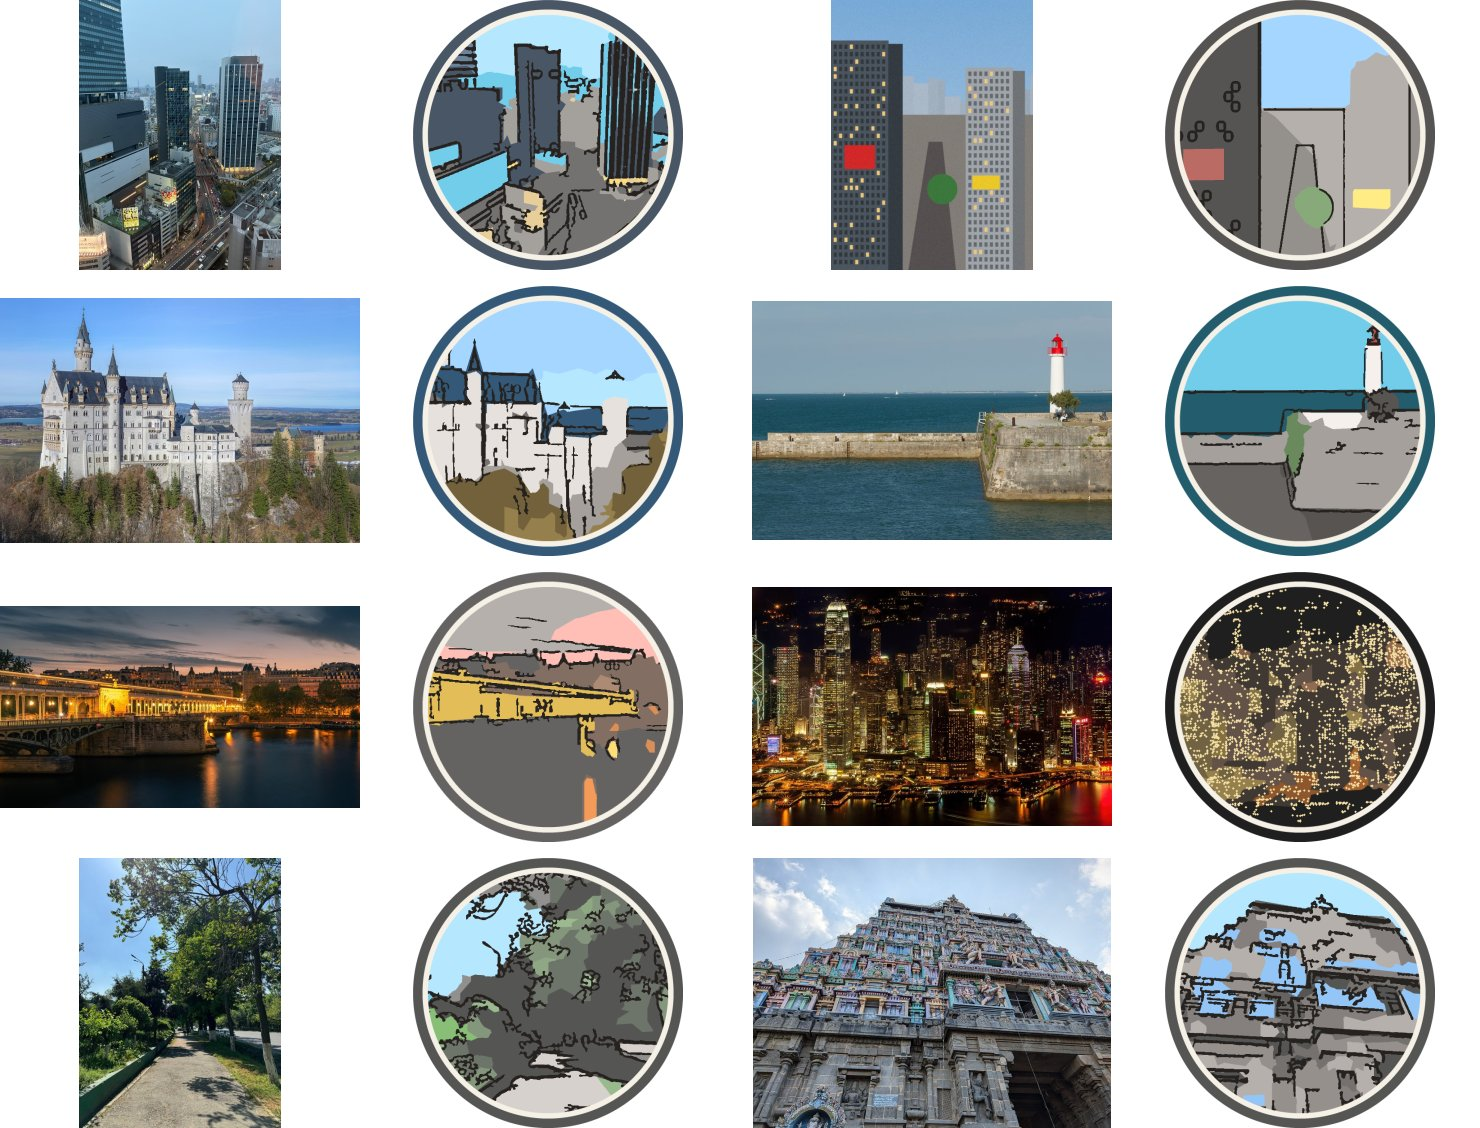
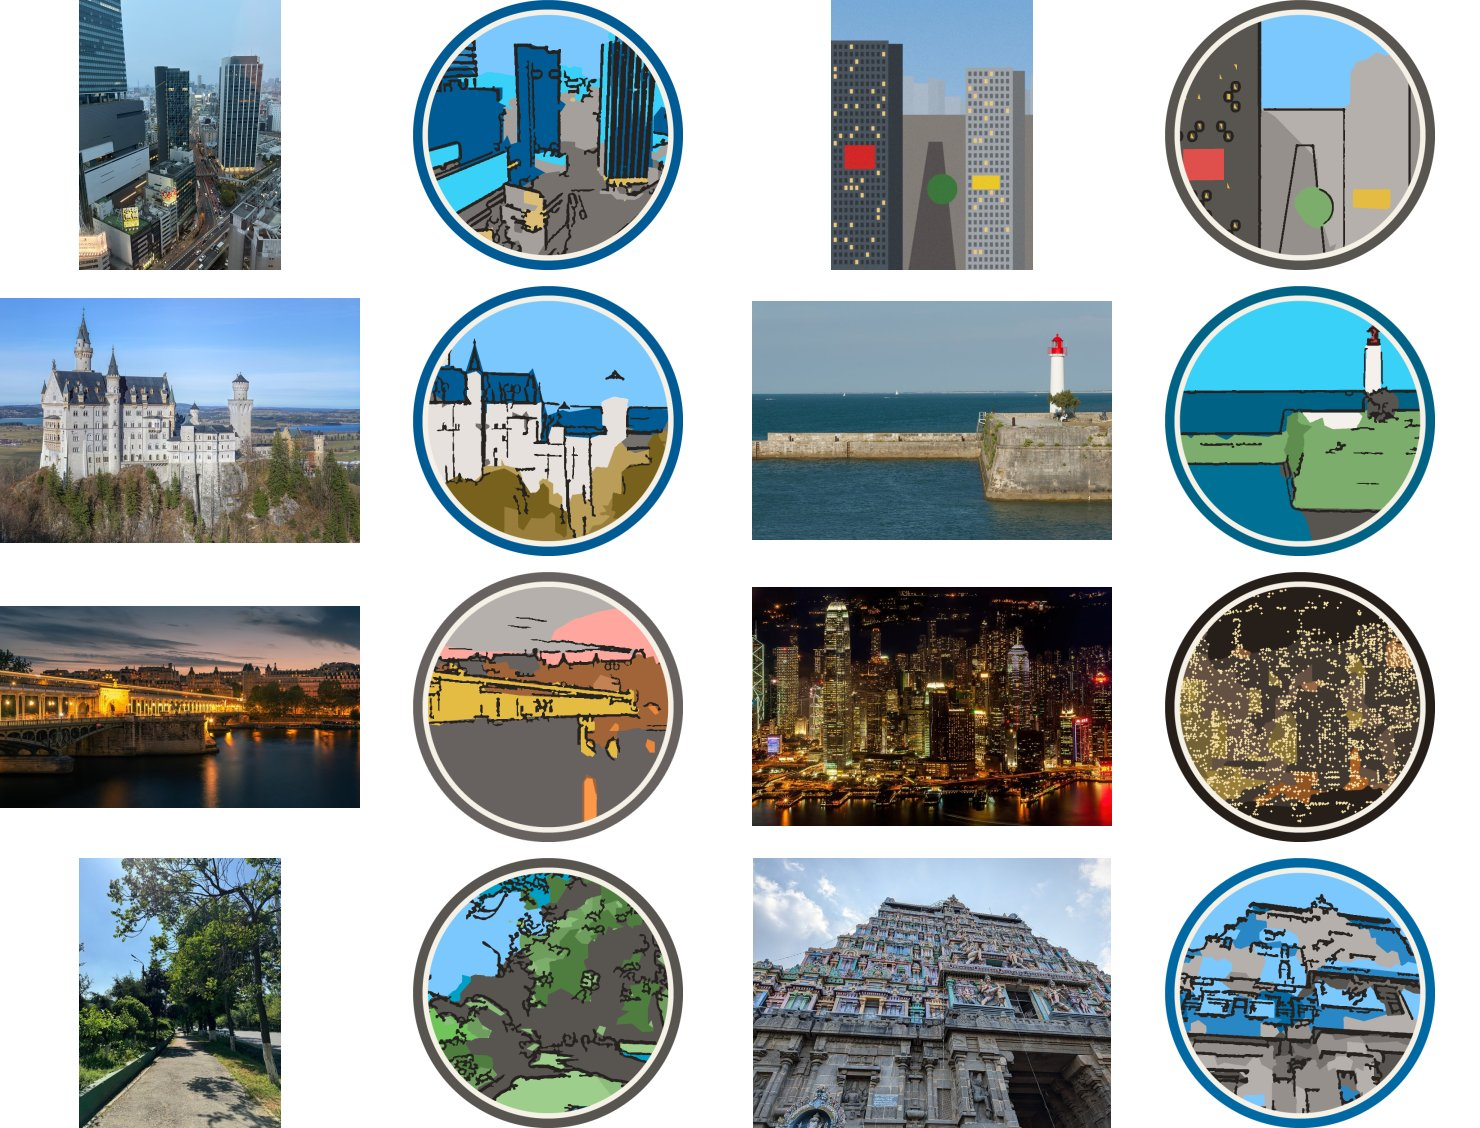
fix: restore vividness of the natural palette
Mean output chroma had dropped 30-60% versus 879da74 on 6 of 8 photos.
- the dark-colour desaturation (added against a maroon night sky) now only
  applies in the night lightness range
- chroma levels 30/55 -> 40/64; grey threshold 10 -> 7 so shadowed leaves keep hue
- chromatic colours capped at L 78: lighter ones fell outside sRGB and were
  clipped to pale tints; only greys go near white

diff --git a/src/photo2stamp/palette.py b/src/photo2stamp/palette.py
@@ -65,9 +65,10 @@ NATURAL_PALETTE = Palette(name=NATURAL, tones=(), sky="", accents=(), far="")
 # Hue anchors (Lab hue angle, degrees): red, orange, yellow, green, teal, blue, sky blue, purple.
 # Measured skies in the examples sit at 245..272 deg; 280 rendered them lavender.
 _HUE_ANCHORS = np.radians([30, 60, 88, 135, 190, 230, 262, 320])
-_NEUTRAL_CHROMA = 10.0  # below this a color is treated as grey
-_MUTED, _VIVID = 30.0, 55.0  # output chroma for muted / vivid colors
+_NEUTRAL_CHROMA = 7.0  # below this a color is treated as grey (shadowed leaves are ~9)
+_MUTED, _VIVID = 40.0, 64.0  # output chroma for muted / vivid colors
 _L_RANGE = (34.0, 95.0)  # output lightness range: light enough for ink outlines to show
+_COLOR_L_MAX = 78.0  # max lightness of chromatic colors
 _L_STEP = 6.0  # lightness is snapped to this step so near-equal tones merge
 
 
@@ -212,6 +213,9 @@ def natural_colors(
     stretched = lo + (L - L.min()) / max(float(L.max() - L.min()), 1e-6) * (hi - lo) if len(L) > 1 else L
     out_l = 0.5 * stretched + 0.5 * _equalized_lightness(L, weights, (lo, hi))
     out_l = np.clip(np.round(out_l / _L_STEP) * _L_STEP, lo, hi)
-    out_c = out_c * np.clip((L - 10.0) / 40.0, 0.15, 1.0)  # colors that were dark in the photo stay muted
+    # very light colors fall outside sRGB and get washed out: only greys may go near white
+    out_l = np.where(chroma < _NEUTRAL_CHROMA, out_l, np.minimum(out_l, _COLOR_L_MAX))
+    if l_range is not None and l_range[1] < 80:  # night range: dark colors stay muted (no maroon night sky)
+        out_c = out_c * np.clip((L - 10.0) / 40.0, 0.15, 1.0)
     lab = np.stack([out_l, out_c * np.cos(out_h), out_c * np.sin(out_h)], axis=1)
     return lab_to_bgr(lab)

diff --git a/tests/test_natural_palette.py b/tests/test_natural_palette.py
@@ -67,7 +67,22 @@ def test_natural_sky_hue_is_blue_not_purple():
     assert b > r + 40 and g > r and r < 150  # lavender (r ~170) is not sky blue
 
 
-def test_natural_dark_colors_are_desaturated():
+def test_natural_dark_colors_are_desaturated_in_night_range():
     # a brownish night sky must not turn maroon
-    b, g, r = natural_colors(_lab((12, 8, 10), (60, 0, 0)))[0].astype(int)
+    b, g, r = natural_colors(_lab((12, 8, 10), (60, 0, 0)), l_range=(10.0, 62.0))[0].astype(int)
     assert max(b, g, r) - min(b, g, r) < 25
+
+
+def test_natural_daytime_shadow_foliage_stays_green():
+    # measured dark leaf cluster of examples/free/street.jpg
+    b, g, r = natural_colors(_lab((15.6, -8.5, -1.1), (61, -4, 2.2)))[0].astype(int)
+    assert g > r + 10  # greenish, not grey
+
+
+def test_natural_vivid_colors_are_strong():
+    lab_out = None
+    from photo2stamp.palette import bgr_to_lab
+
+    out = natural_colors(_lab((60, 30, 50), (40, 0, 0)))
+    lab_out = bgr_to_lab(out)
+    assert np.hypot(*lab_out[0, 1:]) >= 55

diff --git a/README.md b/README.md
@@ -35,7 +35,7 @@ SVG出力の例は[examples/photo_natural.svg](examples/photo_natural.svg)にあ
 | 合成画像 | 分かる | ビル、看板、緑の木、道 |
 | 街の俯瞰(作者撮影) | 分かる | 輪郭線の入った高層ビル群と空 |
 | 夜景 | 分かる | 暗いビル群に灯りの点が並ぶ |
-| 木陰の道 | 分かる | 青空、枝、道。葉は影の色なので暗い灰色になる |
+| 木陰の道 | 分かる | 青空、枝、道、緑と青緑の葉 |
 | 夕景の橋 | ほぼ分かる | 灯りの付いた橋の帯、川、夕焼け。橋脚のアーチは出ない |
 | 寺院 | ほぼ分かる | 段になった塔の形。極彩色の彫刻は灰色と青の面になる |
 
@@ -93,7 +93,7 @@ open("stamp.svg", "w").write(result.svg)
 | 3 | L0勾配最小化で、重要な輪郭を残したまま面を平らにする | `pipeline._smooth` |
 | 4 | Lab色空間のk-meansで8色に分ける。色み(a, b)を明るさの2倍に重み付けし、同じ明るさの緑の木と灰色の道を別の色にする | `segment.quantize` |
 | 5 | 彩度の高い小領域(看板や照明)を拾い、上端に接するなめらかな領域を空とする | `segment.extract_accents` / `extract_sky` |
-| 6 | 色を決める。`natural`では色相を8つの基準色に、彩度を2段階に、明るさを一定の段差にそろえる | `palette.natural_colors` |
+| 6 | 色を決める。`natural`では色相を8つの基準色に、彩度を2段階に、明るさを一定の段差にそろえる。色のある面は明るさを78までに抑え(白に近づけるとsRGBの範囲を外れて淡くなるため)、白に近い明るさは灰色にだけ使う | `palette.natural_colors` |
 | 7 | 小さな領域を隣に吸収させ、ラベルを元の大きさになめらかに拡大し、多角形にする | `segment.merge_small_regions` / `upscale_labels` / `vectorize.labels_to_shapes` |
 | 8 | 輪郭線を描く。600pxの写真にDoG(ガウシアン差分)をかけ、短い線を捨てて太さをそろえる。暗い面の上には描かない | `lines.dog_lines` / `clean_lines` |
 | 9 | 夜景(明るさの中央値が45未満)では面を暗く保ち、輪郭線の代わりに明るい点(窓の灯り)を灯り色の点で描く | `pipeline.is_night` / `lines.light_spots` |
@@ -129,7 +129,7 @@ open("stamp.svg", "w").write(result.svg)
 ## 制約
 
 - 固定パレット(`teal`など)は明度だけで塗り分けるので、青空が白、木が黄色のように物の色が入れ替わり、被写体が分かりにくくなります。被写体を見せたいときは`natural`を使ってください
-- 影の中の葉のように暗い色は、彩度が低いので灰色になります
+- 影の中の葉は写真では少し青みがかっているため、青緑で塗られます
 - 多色の模様(寺院の彫刻など)は、色が平均されて灰色や青の面になります
 - 夜モードの判定は写真全体の明るさだけで行います。夕景のように半分だけ暗い写真は昼の描き方になります
 - 正方形の切り抜き位置は「エッジが最も多い範囲」で決めます。細部の多いものが主役でない写真では、主役が外れることがあります
